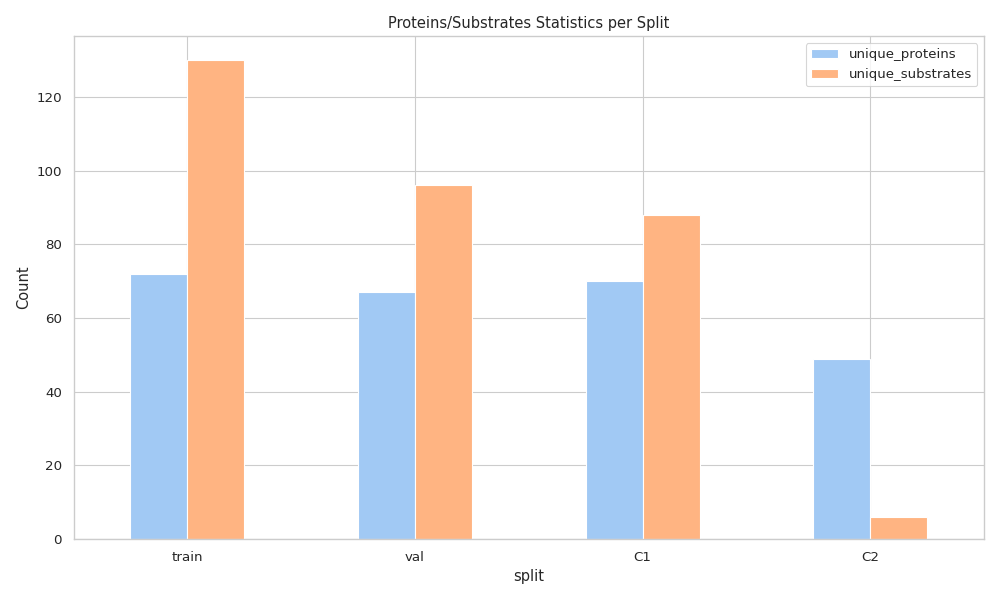
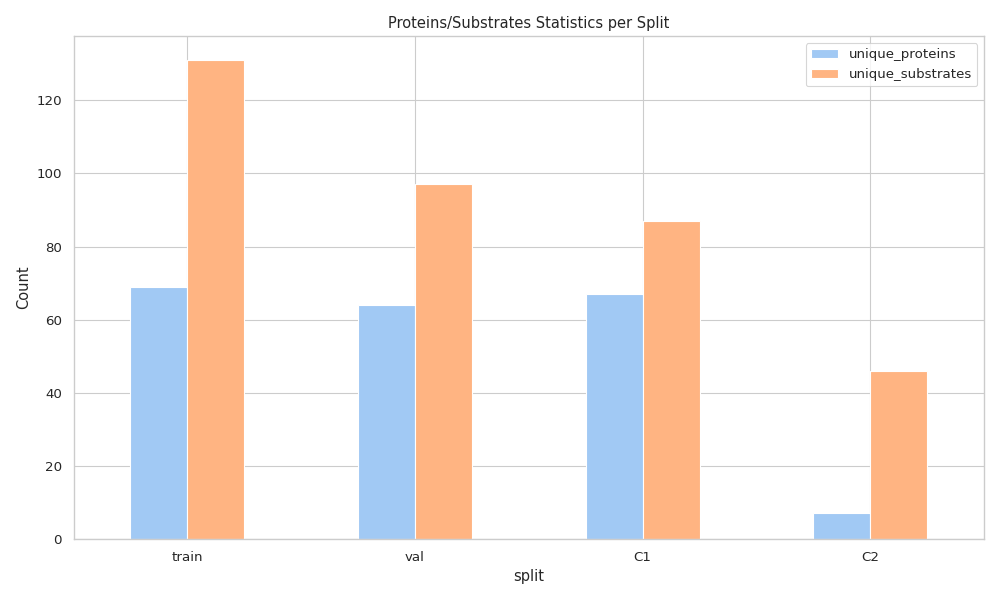
plot for connectivity imbalance

diff --git a/src/data/data_split.py b/src/data/data_split.py
@@ -3,7 +3,7 @@ import random
 import networkx as nx
 from collections import defaultdict, Counter
 from sklearn.model_selection import train_test_split
-from src.utils.visualization import plot_split_graph, plot_graph_connectivity
+from src.utils.visualization import plot_split_graph, plot_graph_connectivity, plot_connectivity_separate
 
 def stratified_split_by_entities(df, protein_col="UGT_ID", substrate_col="substrate", random_state=42):
     """
@@ -30,17 +30,13 @@ def stratified_split_by_entities(df, protein_col="UGT_ID", substrate_col="substr
     C2_edges = edge_split["C2"]
     C3_edges = edge_split['C3']
 
-    while((len(C2_edges) < 50)):
+    while((len(C2_edges) < 45)):
         # choose an edge from c1
         random.seed(random_state)
         edge_to_move = random.choice(C1_edges)
         u, v, l = edge_to_move
         # choose which component to move from seen to unseen
-        unseen_u = bool(random.getrandbits(1))
-        if unseen_u:
-            unseen_component = u
-        else:
-            unseen_component = v
+        unseen_component = u # protein as they are underrepresented in data
         # remove now unseen components from train and val sets
         train_removed = [e for e in train_edges if unseen_component in e]
         train_edges = [e for e in train_edges if unseen_component not in e]
@@ -60,6 +56,7 @@ def stratified_split_by_entities(df, protein_col="UGT_ID", substrate_col="substr
         seen_nodes.add(v)
     plot_split_graph(graph, train_edges, val_edges, C1_edges, C2_edges, C3_edges, seen_nodes)
     plot_graph_connectivity(graph)
+    plot_connectivity_separate(graph)
     ###
 
     # perform split on df based on graph split
@@ -121,9 +118,9 @@ def split_graph(G, train_frac=0.7, test_frac=0.15, random_state=42):
         n_train = int(train_frac * n)
         n_val = int(val_frac * n)
 
-        # random select subset of edges = training pairs
+        # select subset of edges = training pairs
         train_edges.extend(group[:n_train])
-        # random select subset of remaining edges = val pairs (unseen edges maybe seen nodes)
+        # select subset of remaining edges = val pairs (unseen edges maybe seen nodes)
         val_edges.extend(group[n_train:n_train + n_val])
         # rest for evaluation
         test_edges.extend(group[n_train + n_val:])
@@ -186,10 +183,12 @@ def check_split(train_df, val_df, c1_df, c2_df, c3_df, protein_col, substrate_co
     val_substrates = set(val_df[substrate_col].unique())
 
     # C1 consistency
+    seen_proteins = train_proteins | val_proteins
+    seen_substrates = train_substrates | val_substrates
     c1_proteins = set(c1_df[protein_col].unique())
     c1_substrates = set(c1_df[substrate_col].unique())
-    assert c1_proteins <= train_proteins, "C1 protein not in training!"
-    assert c1_substrates <= train_substrates, "C1 substrate not in training!"
+    assert c1_proteins <= seen_proteins, "C1 protein not in training!"
+    assert c1_substrates <= seen_substrates, "C1 substrate not in training!"
 
     # C2 consistency
     for idx, row in c2_df.iterrows():

diff --git a/src/utils/visualization.py b/src/utils/visualization.py
@@ -146,6 +146,35 @@ def plot_graph_connectivity(g):
     plt.savefig(output_path)
     plt.close()
 
+def plot_connectivity_separate(G):
+    # Identify node types from bipartite structure:
+    proteins = [n for n, d in G.nodes(data=True) if d.get("bipartite") == "protein"]
+    substrates = [n for n, d in G.nodes(data=True) if d.get("bipartite") == "substrate"]
+
+    # Compute degrees
+    protein_deg = [G.degree(p) for p in proteins]
+    substrate_deg = [G.degree(s) for s in substrates]
+
+    # Plot
+    plt.figure(figsize=(12,5))
+
+    plt.subplot(1,2,1)
+    plt.hist(protein_deg, bins=20)
+    plt.title("Protein Degree Distribution")
+    plt.xlabel("Degree")
+    plt.ylabel("# Proteins")
+
+    plt.subplot(1,2,2)
+    plt.hist(substrate_deg, bins=20)
+    plt.title("Substrate Degree Distribution")
+    plt.xlabel("Degree")
+    plt.ylabel("# Substrates")
+
+    plt.tight_layout()
+    output_path = os.path.join(FIGURES_DIR, "graph_connectivity_separate.png")
+    plt.savefig(output_path)
+    plt.close()
+
 def plot_split_statistics(df_split, protein_col, substrate_col, label_col, split_col="split"):
     """Visualize unique enzymes/substrates and label distribution per split."""
 
